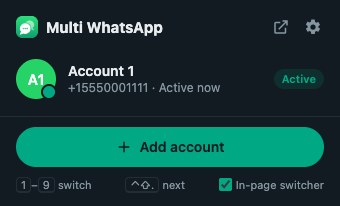
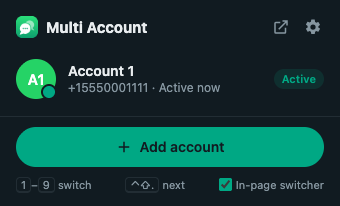
refactor: rename store listing to Multi Account for WhatsApp Web
Avoid a name that reads as an official WhatsApp product; add a
non-affiliation disclaimer to the README and privacy policy.

Changed region(s): [[0.2353, 0.0874, 0.5, 0.1748]]

diff --git a/scripts/build.ts b/scripts/build.ts
@@ -14,13 +14,13 @@ const icons = Object.fromEntries(ICON_SIZES.map((s) => [String(s), `icons/icon-$
 
 const manifest = {
   manifest_version: 3,
-  name: "Multi WhatsApp",
-  short_name: "Multi WA",
+  name: "Multi Account for WhatsApp Web",
+  short_name: "Multi Account",
   version: pkg.version,
   description: pkg.description,
   minimum_chrome_version: "120",
   icons,
-  action: { default_popup: "popup.html", default_icon: icons, default_title: "Multi WhatsApp" },
+  action: { default_popup: "popup.html", default_icon: icons, default_title: "Multi Account for WhatsApp Web" },
   options_ui: { page: "options.html", open_in_tab: true },
   background: { service_worker: "background.js", type: "module" },
   // Sessions live in one shared vault; an incognito copy would fight over it.
@@ -100,5 +100,5 @@ if (watch) {
   console.log("👀 watching… reload the extension at chrome://extensions after changes");
 } else {
   await Promise.all([esbuild.build(options), esbuild.build(cssOptions)]);
-  console.log(`✅ built Multi WhatsApp v${pkg.version} → dist/`);
+  console.log(`✅ built Multi Account for WhatsApp Web v${pkg.version} → dist/`);
 }

diff --git a/src/popup/popup.html b/src/popup/popup.html
@@ -3,14 +3,14 @@
   <head>
     <meta charset="utf-8" />
     <meta name="viewport" content="width=device-width, initial-scale=1" />
-    <title>Multi WhatsApp</title>
+    <title>Multi Account</title>
     <link rel="stylesheet" href="popup.css" />
   </head>
   <body>
     <header>
       <div class="brand">
         <img src="icons/icon-32.png" alt="" width="22" height="22" />
-        <span>Multi WhatsApp</span>
+        <span>Multi Account</span>
       </div>
       <div class="header-actions">
         <button type="button" class="icon-btn" id="open" title="Open WhatsApp Web" aria-label="Open WhatsApp Web">

diff --git a/src/options/options.html b/src/options/options.html
@@ -3,7 +3,7 @@
   <head>
     <meta charset="utf-8" />
     <meta name="viewport" content="width=device-width, initial-scale=1" />
-    <title>Multi WhatsApp — Settings</title>
+    <title>Multi Account for WhatsApp Web — Settings</title>
     <link rel="stylesheet" href="options.css" />
   </head>
   <body>
@@ -11,7 +11,7 @@
       <header class="page-head">
         <img src="icons/icon-48.png" alt="" width="40" height="40" />
         <div>
-          <h1>Multi WhatsApp</h1>
+          <h1>Multi Account for WhatsApp Web</h1>
           <p class="muted" id="version"></p>
         </div>
       </header>

diff --git a/src/background/index.ts b/src/background/index.ts
@@ -226,7 +226,7 @@ async function refreshBadge(): Promise<void> {
     await chrome.action.setBadgeText({ text: accounts.length ? "?" : "" });
     await chrome.action.setBadgeBackgroundColor({ color: "#8696a0" });
   }
-  await chrome.action.setTitle({ title: active ? `Multi WhatsApp — ${active.name}` : "Multi WhatsApp" });
+  await chrome.action.setTitle({ title: active ? `Multi Account — ${active.name}` : "Multi Account for WhatsApp Web" });
 }
 
 // ---------------------------------------------------------------------------

diff --git a/src/content/dock.ts b/src/content/dock.ts
@@ -73,7 +73,7 @@ export function mountDock(): void {
       .join("");
 
     root.innerHTML = `
-      <div class="tab" title="Multi WhatsApp — switch account">
+      <div class="tab" title="Multi Account — switch WhatsApp account">
         <div class="grip" title="Drag to move"></div>
         ${active ? avatarHtml(active.name, active.color) : avatarHtml("?", "#8696a0")}
         <span class="count">${accounts.length}</span>

diff --git a/README.md b/README.md
@@ -1,4 +1,4 @@
-# Multi WhatsApp
+# Multi Account for WhatsApp Web
 
 A Chrome extension that keeps several WhatsApp Web accounts in one browser profile and switches between them in a click. You don't need a second Chrome profile, and you don't need to log out and scan a QR code each time.
 
@@ -10,7 +10,7 @@ A Chrome extension that keeps several WhatsApp Web accounts in one browser profi
 2. Open `chrome://extensions` in Chrome.
 3. Turn on **Developer mode** in the upper-right corner.
 4. Click **Load unpacked** and select the `dist/` folder (the one containing `manifest.json`).
-5. Pin **Multi WhatsApp** from Chrome's puzzle-piece Extensions menu.
+5. Pin **Multi Account for WhatsApp Web** from Chrome's puzzle-piece Extensions menu.
 6. Open (or reload) [web.whatsapp.com](https://web.whatsapp.com). If you're already logged in, that session becomes **Account 1**.
 
 Keep the folder in place while the extension is installed. After rebuilding, click the extension's **Reload** button in `chrome://extensions`, then reload the WhatsApp tab.
@@ -77,6 +77,10 @@ The extension never reads, sends or indexes your messages. It reads one `localSt
 - **Disk space:** each saved account takes about as much as one WhatsApp Web session. The settings page shows the total.
 - **Only one account runs at a time.** Inactive accounts don't receive messages until you switch to them, the same as a closed WhatsApp Web tab. Your phone still gets everything.
 - The extension depends on how WhatsApp Web stores its session. It treats that storage generically and copies whatever databases exist, but a major WhatsApp change could still break it.
+
+## Disclaimer
+
+This is an independent project. It isn't affiliated with, endorsed by or sponsored by WhatsApp LLC or Meta Platforms, Inc. WhatsApp is a trademark of WhatsApp LLC.
 
 ## Development
 

diff --git a/PRIVACY.md b/PRIVACY.md
@@ -1,6 +1,6 @@
 # Privacy
 
-Multi WhatsApp runs entirely in your browser.
+Multi Account for WhatsApp Web runs entirely in your browser.
 
 **What it stores**, all in your Chrome profile on this device:
 
@@ -16,4 +16,6 @@ Multi WhatsApp runs entirely in your browser.
 
 **Removing data:** Removing an account in the extension deletes its saved session. Uninstalling the extension deletes the account list. Saved sessions inside web.whatsapp.com's storage stay until you remove them in the extension first or clear that site's data in Chrome (*Settings → Privacy and security → Site settings → web.whatsapp.com → Delete data*).
 
-Multi WhatsApp isn't affiliated with or endorsed by WhatsApp or Meta.
+Multi Account for WhatsApp Web is an independent project. It isn't affiliated with, endorsed by or sponsored by WhatsApp LLC or Meta Platforms, Inc. WhatsApp is a trademark of WhatsApp LLC.
+
+Questions: open an issue at https://github.com/mehulmpt/multi-whatsapp/issues.
